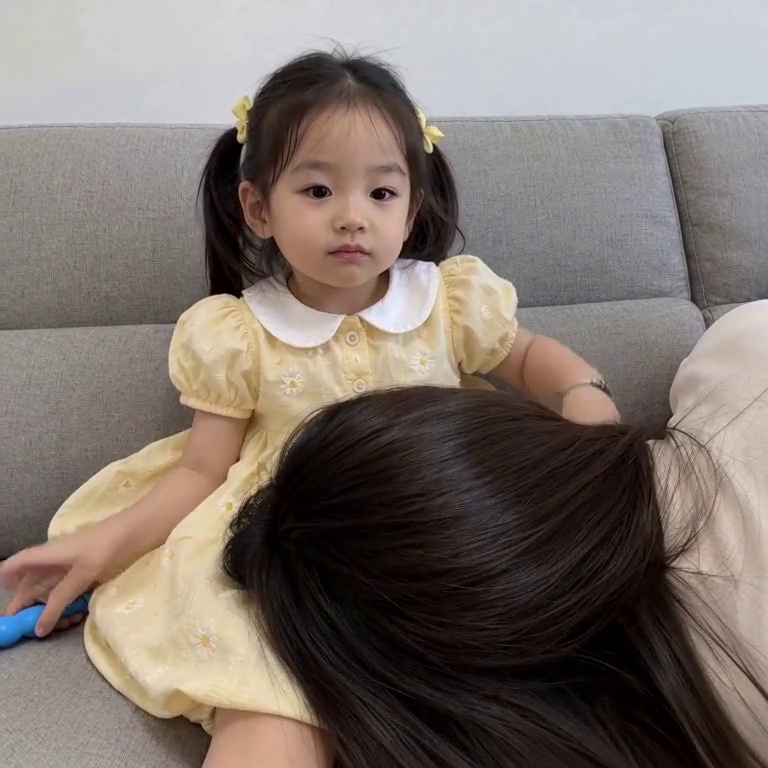
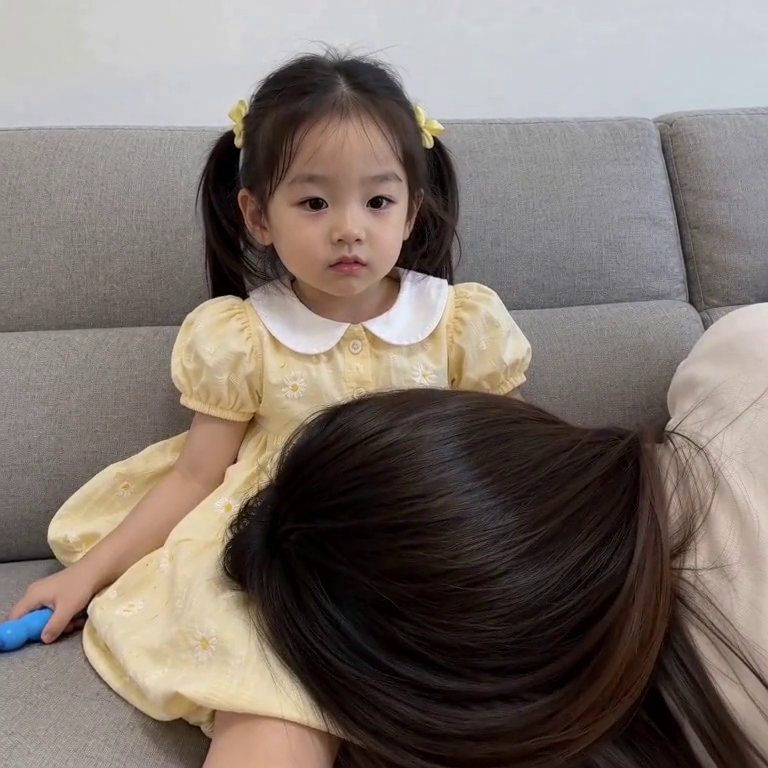
Next8: cleaner Kling start frame (2.5s)
Claude-Session: https://claude.ai/code/session_01NadtamC3j7eyTVHCEF92VQ

diff --git a/work/week3/next8/PLAN.md b/work/week3/next8/PLAN.md
@@ -45,4 +45,4 @@
 - 교훈: 이미지 검수 때 "팔·손이 몸 어디에서 나오는지" 하나씩 따라가며 개수를 센다.
 - Ref-Mom-Push.png 통과: 팔 2개(어깨부터 확인), 손가락 5+5, 손목 자연스러움, 장난감은 소파 위, 장난스러운 미소, 클로즈업.
 - ✘ 소스 자체 문제(사용자 지적): Src-Mom-Push.mp4(원본 23.4–28.4)는 손이 모션블러·저화질로 기괴 → 동영상 수정은 소스 손을 따라가므로 쓰지 않음.
-- 대안: Kling O1 Start/End(소스 영상 없음). Start = images/Mom-K-Last.png(Next8-Mom 3.9초, 팔 2개 확인), End = ref/Ref-Mom-Push.png. 합본: Next8-Mom 0–3.9 + Kling 클립.
+- 대안: Kling O1 Start/End(소스 영상 없음). Start = images/Mom-K-Last.png(Next8-Mom 2.5초 — 3.5초 이후는 오른손이 기괴하게 올라옴, 2.5초는 왼손이 장난감 쥠·오른팔은 엄마 머리 뒤로 가려 깨끗), End = ref/Ref-Mom-Push.png. 합본: Next8-Mom 0–2.5 + Kling 클립.
